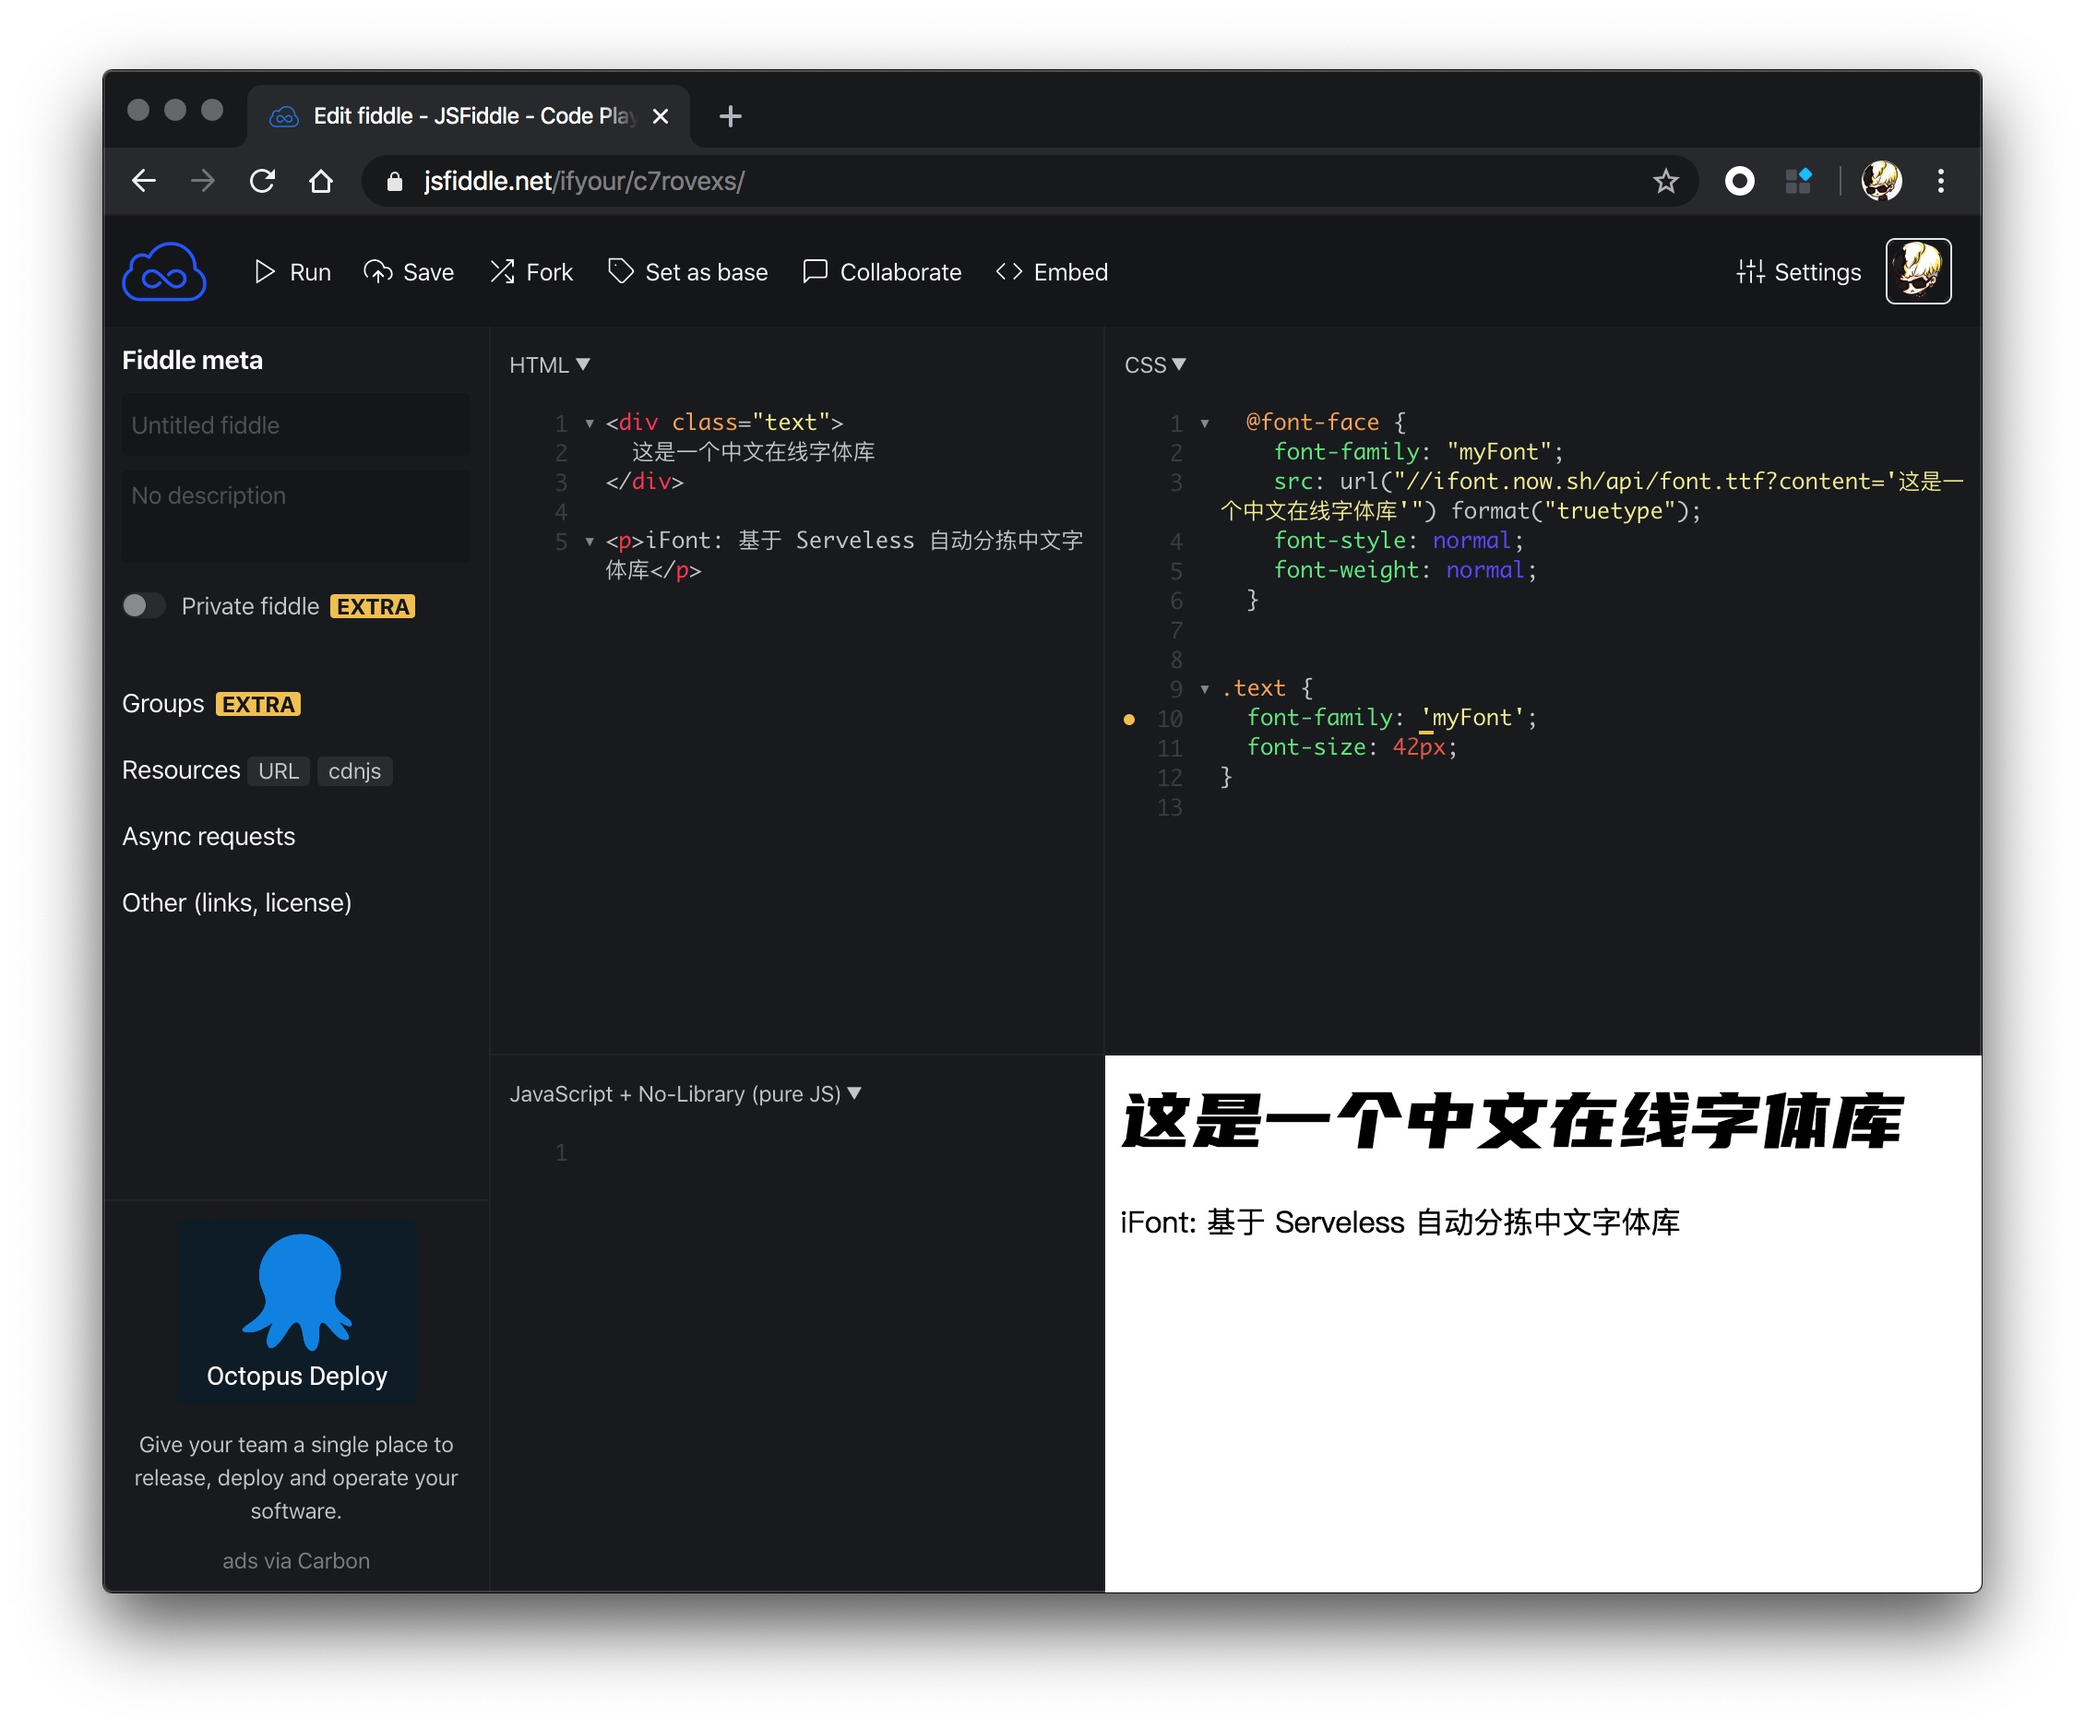
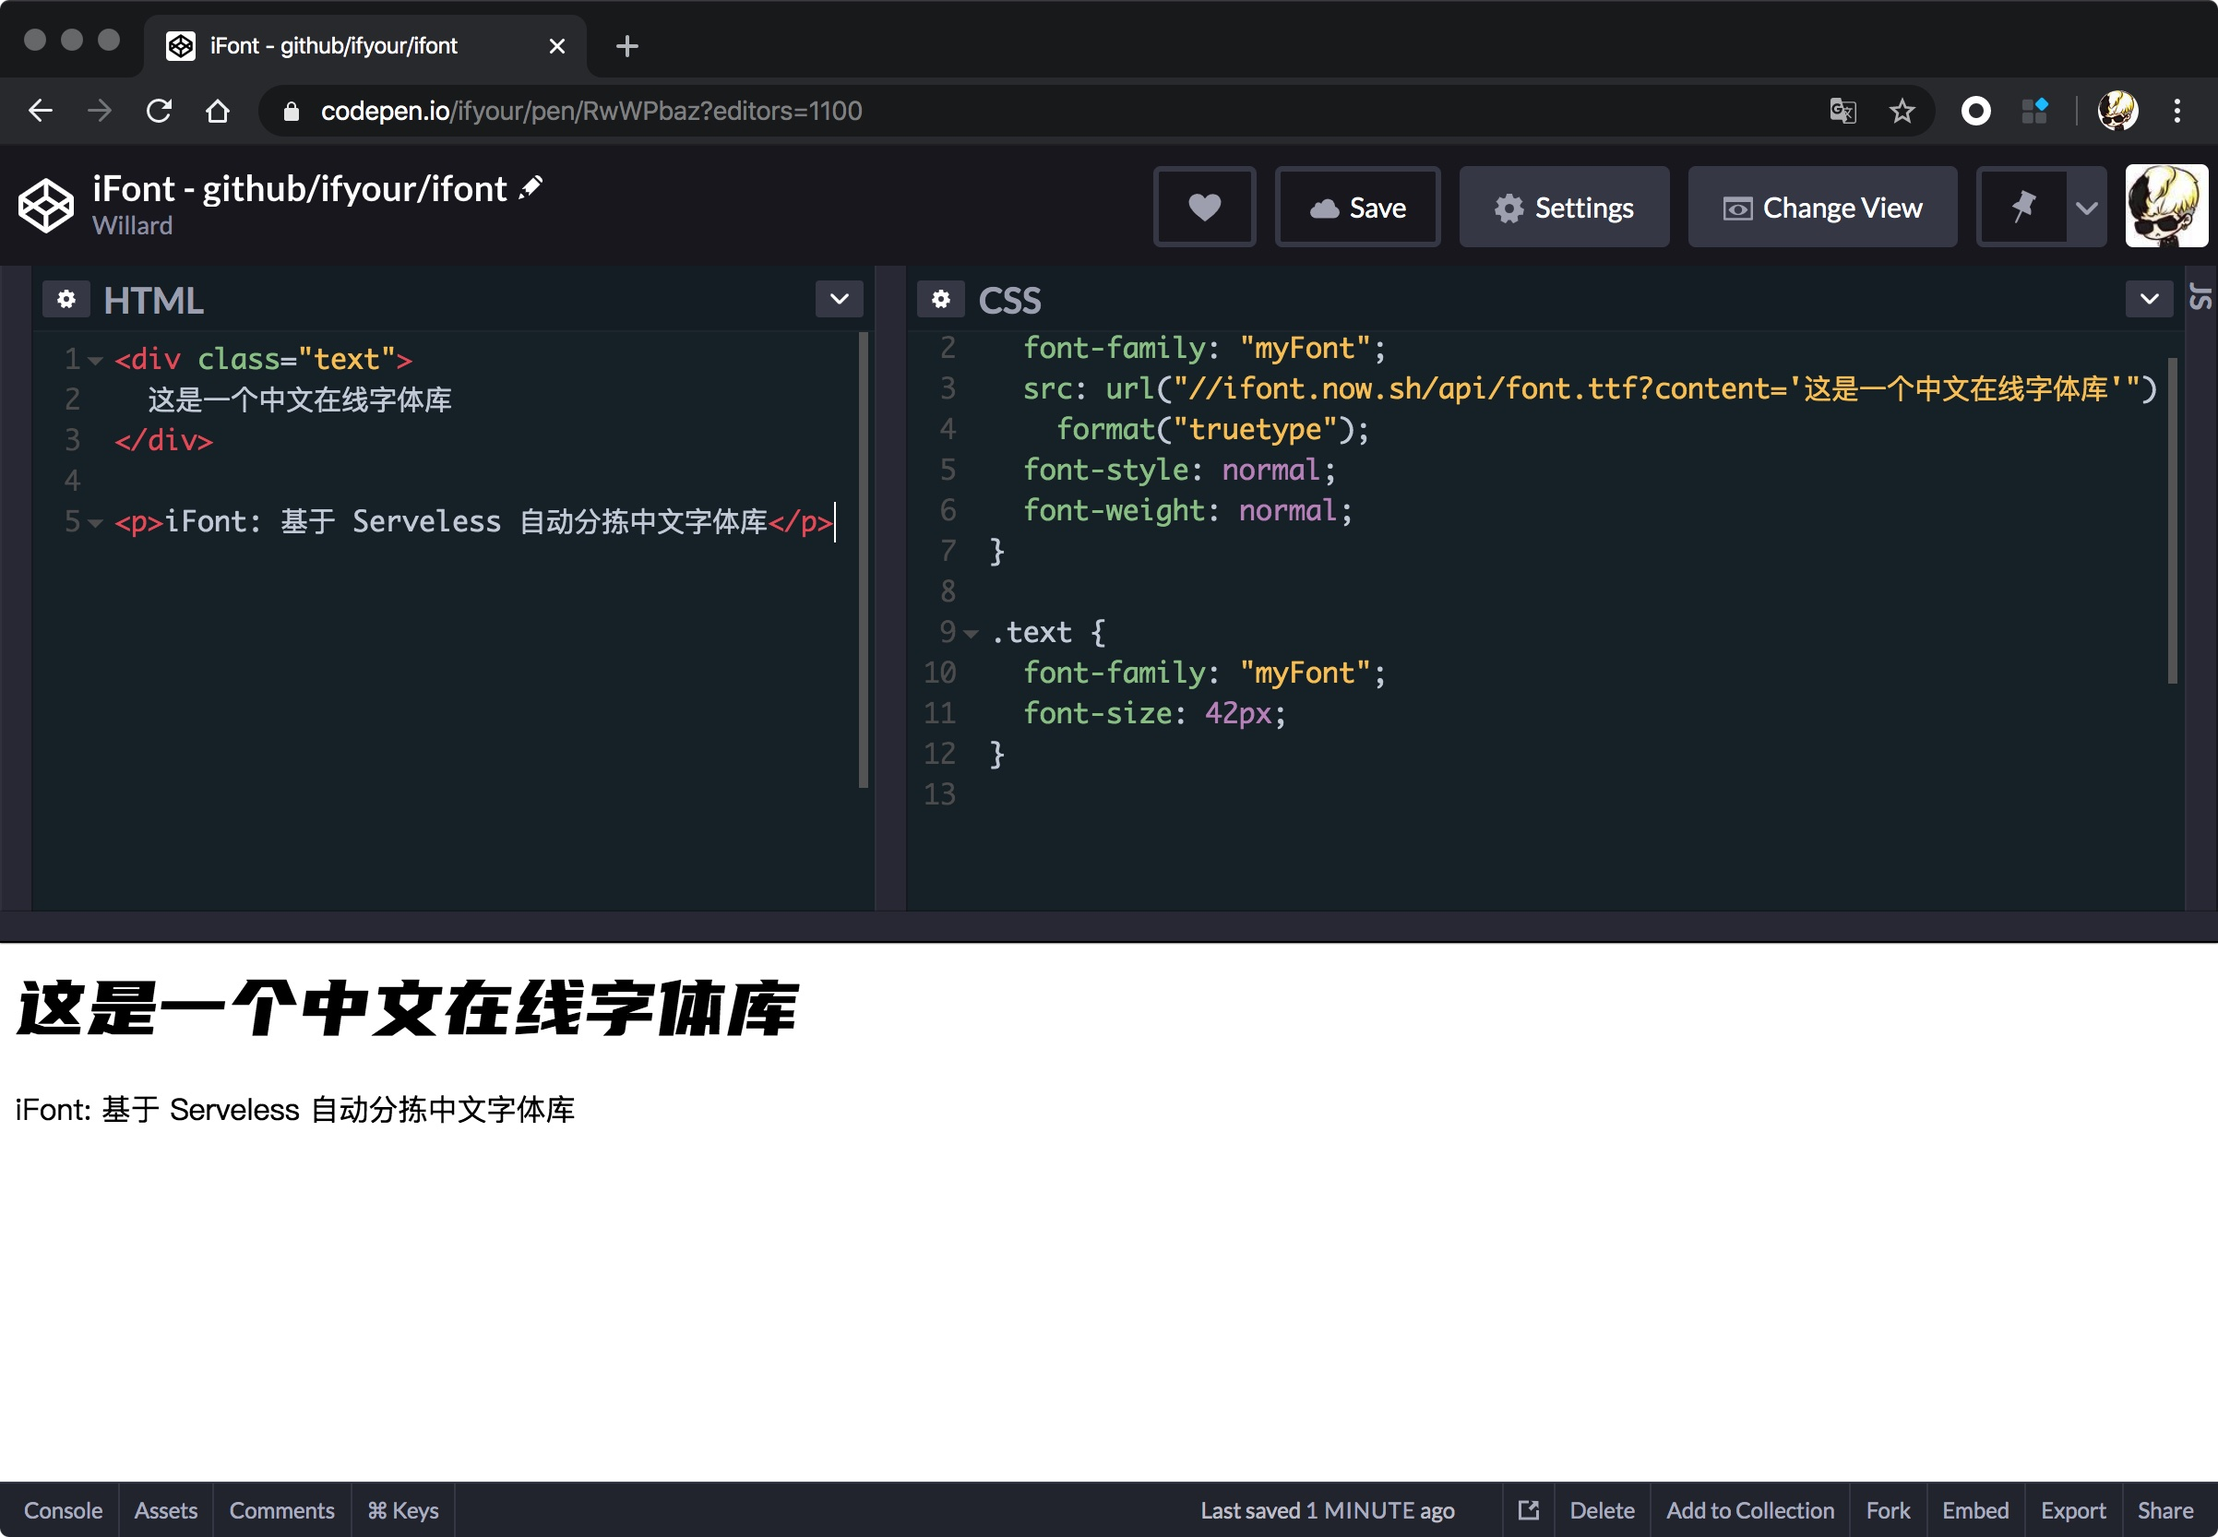
feat: update useage demo

diff --git a/README.md b/README.md
@@ -5,7 +5,7 @@
 ## Usage
 
 <p align="left">
-  🎉 <a href="https://jsfiddle.net/ifyour/c7rovexs/">Try it! 👉JsFiddle</a>
+  🎉 <a href="https://codepen.io/ifyour/pen/RwWPbaz?editors=1100">Try it! 👉 Codepen.io</a>
 </p>
 <p align="left">
   <img src="./assets/demo.jpg" alt="demo" width="70%">
